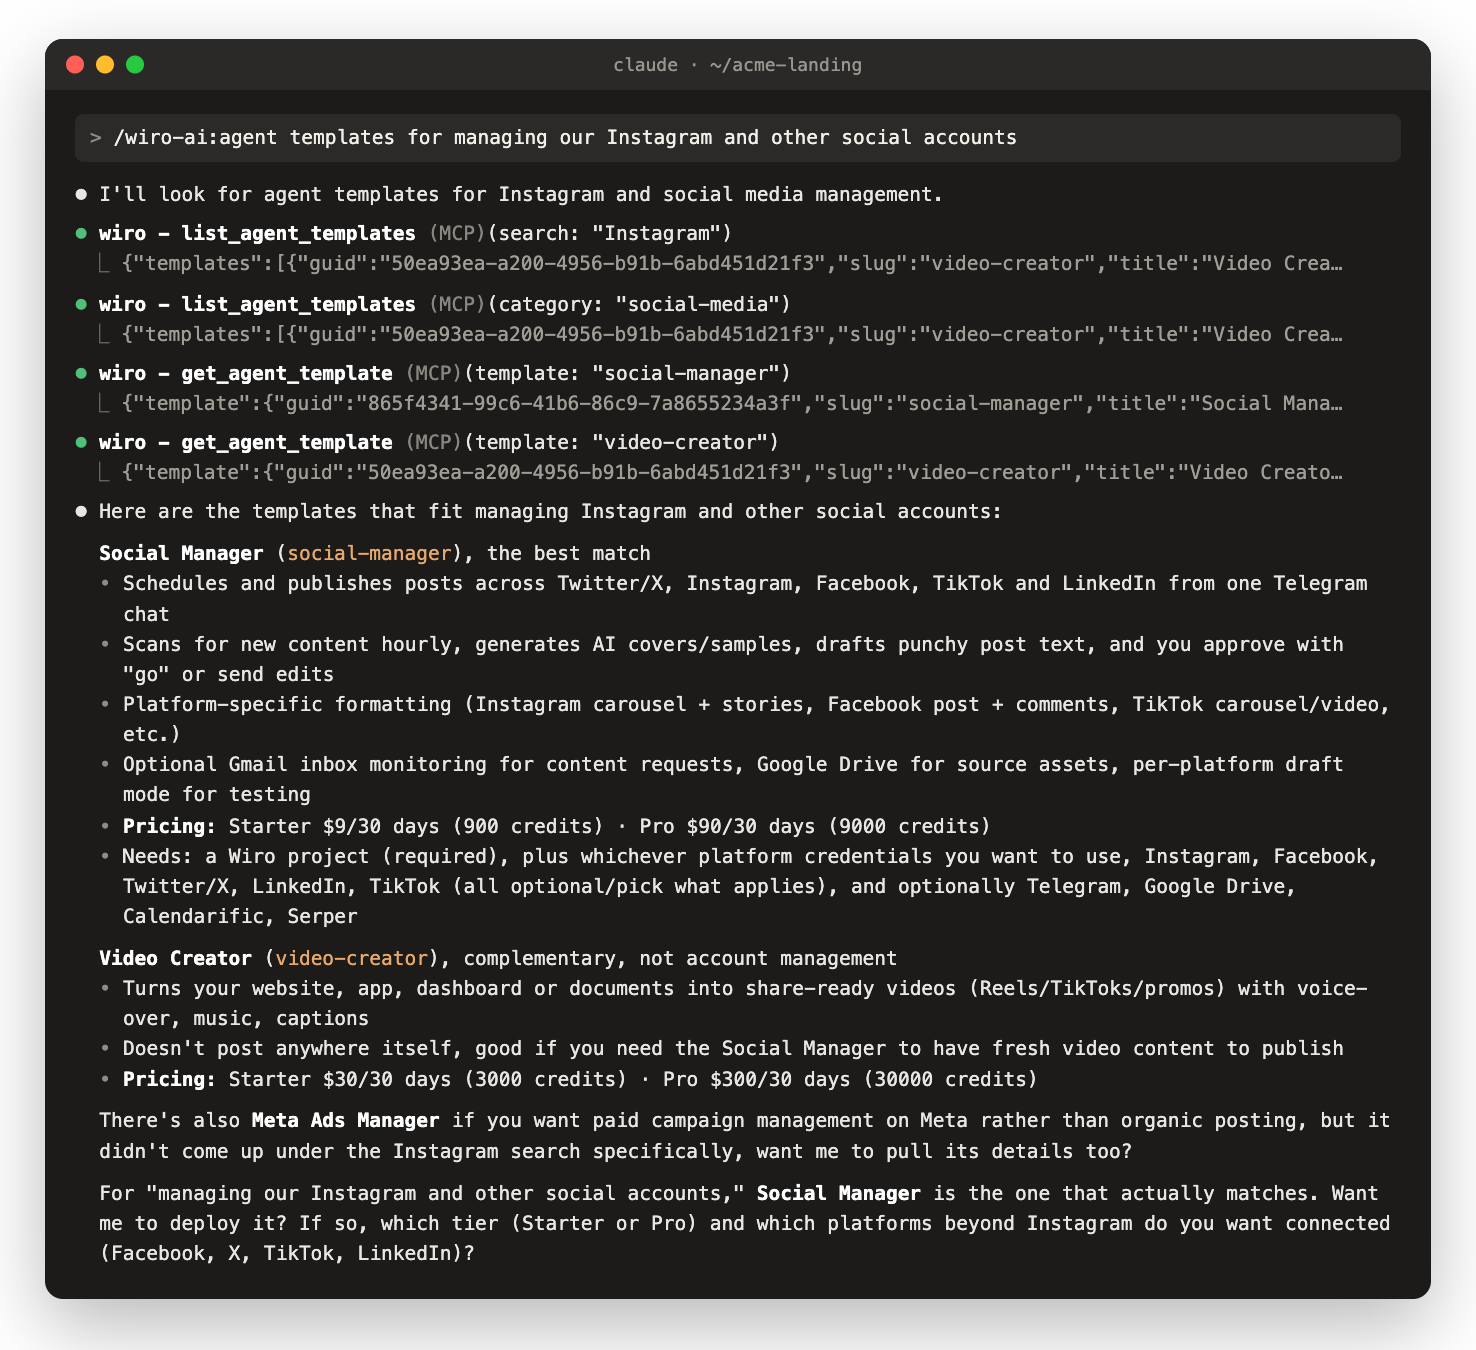
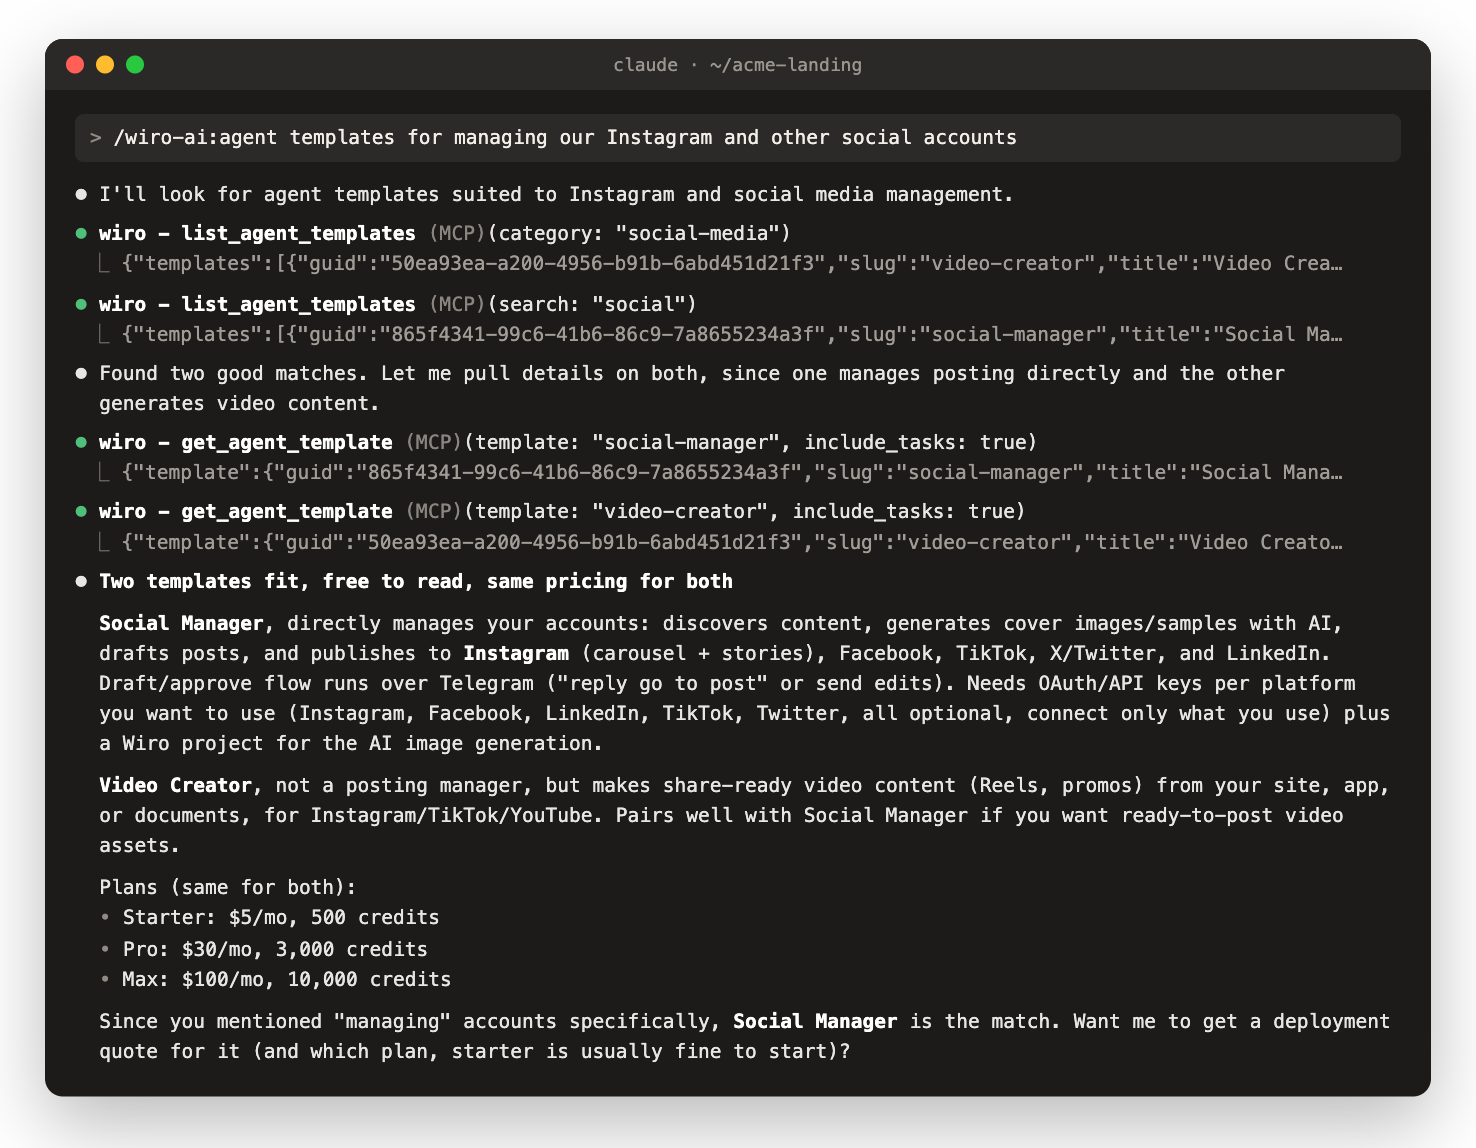
chore: release 1.3.1 (#9)
Version 1.3.1 in all six manifests and a CHANGELOG entry: agents run on
three plans (Starter, Pro and Max) and skill changes are free. Claude
Code, Kiro, Antigravity and Gemini CLI update an installed plugin only
when its version changes, so the skills and commands from #8 reach
everyone who installed 1.3.0.

The agent templates screenshot is a new real Claude Code session with
the hosted Wiro MCP server (1.6.0), in the same terminal view as the
other screenshots, and shows the three plans with their credits.

Changed region(s): [[0.0312, 0.0915, 0.9661, 0.9756], [0.0312, 0.0305, 0.9661, 0.061]]

diff --git a/CHANGELOG.md b/CHANGELOG.md
@@ -1,5 +1,9 @@
 # Changelog
 
+## 1.3.1 (2026-11-14)
+
+- Agents run on three plans (Starter, Pro and Max) and skill changes are free.
+
 ## 1.3.0 (2026-11-11)
 
 - Slash commands for images, image edits, video, speech, music, transcripts, 3D, the model catalog, workflows, agents and tasks: `/wiro-ai:image` in Claude Code, `/wiro:image` in Gemini CLI and `/wiro-image` in Cursor, and the same set as skills you call with `/` in Devin, Antigravity and Kiro. Each command picks its model from the catalog, gives the price before a paid run and can save the results into your project.
